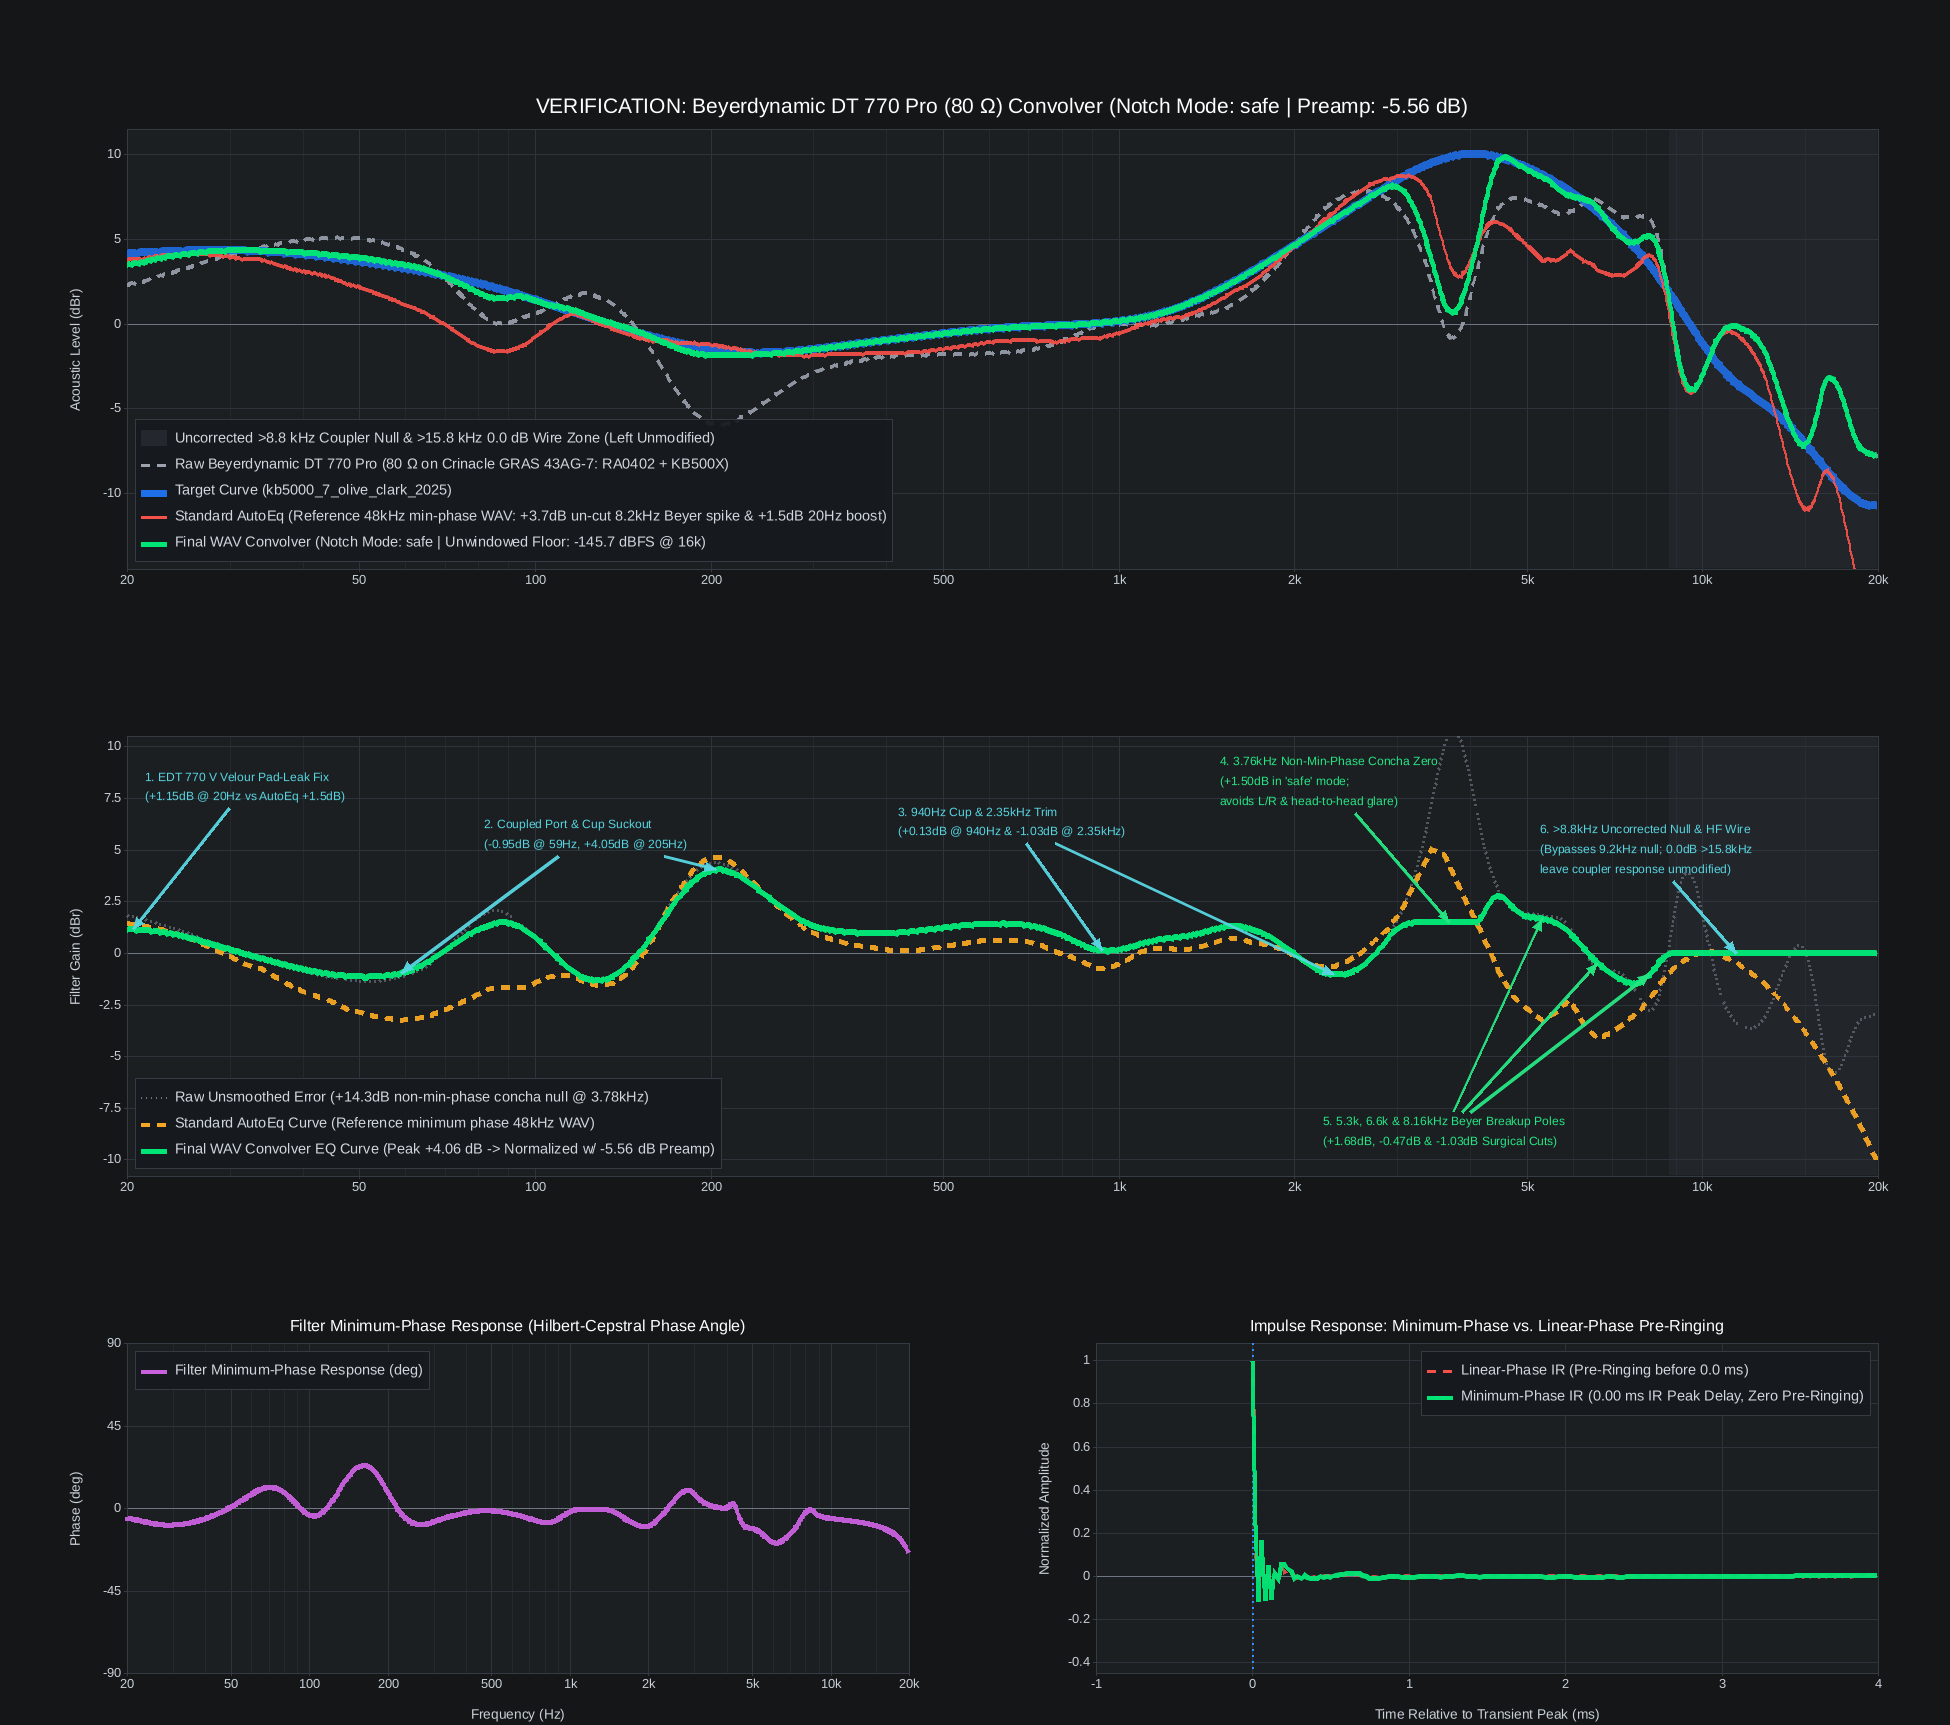
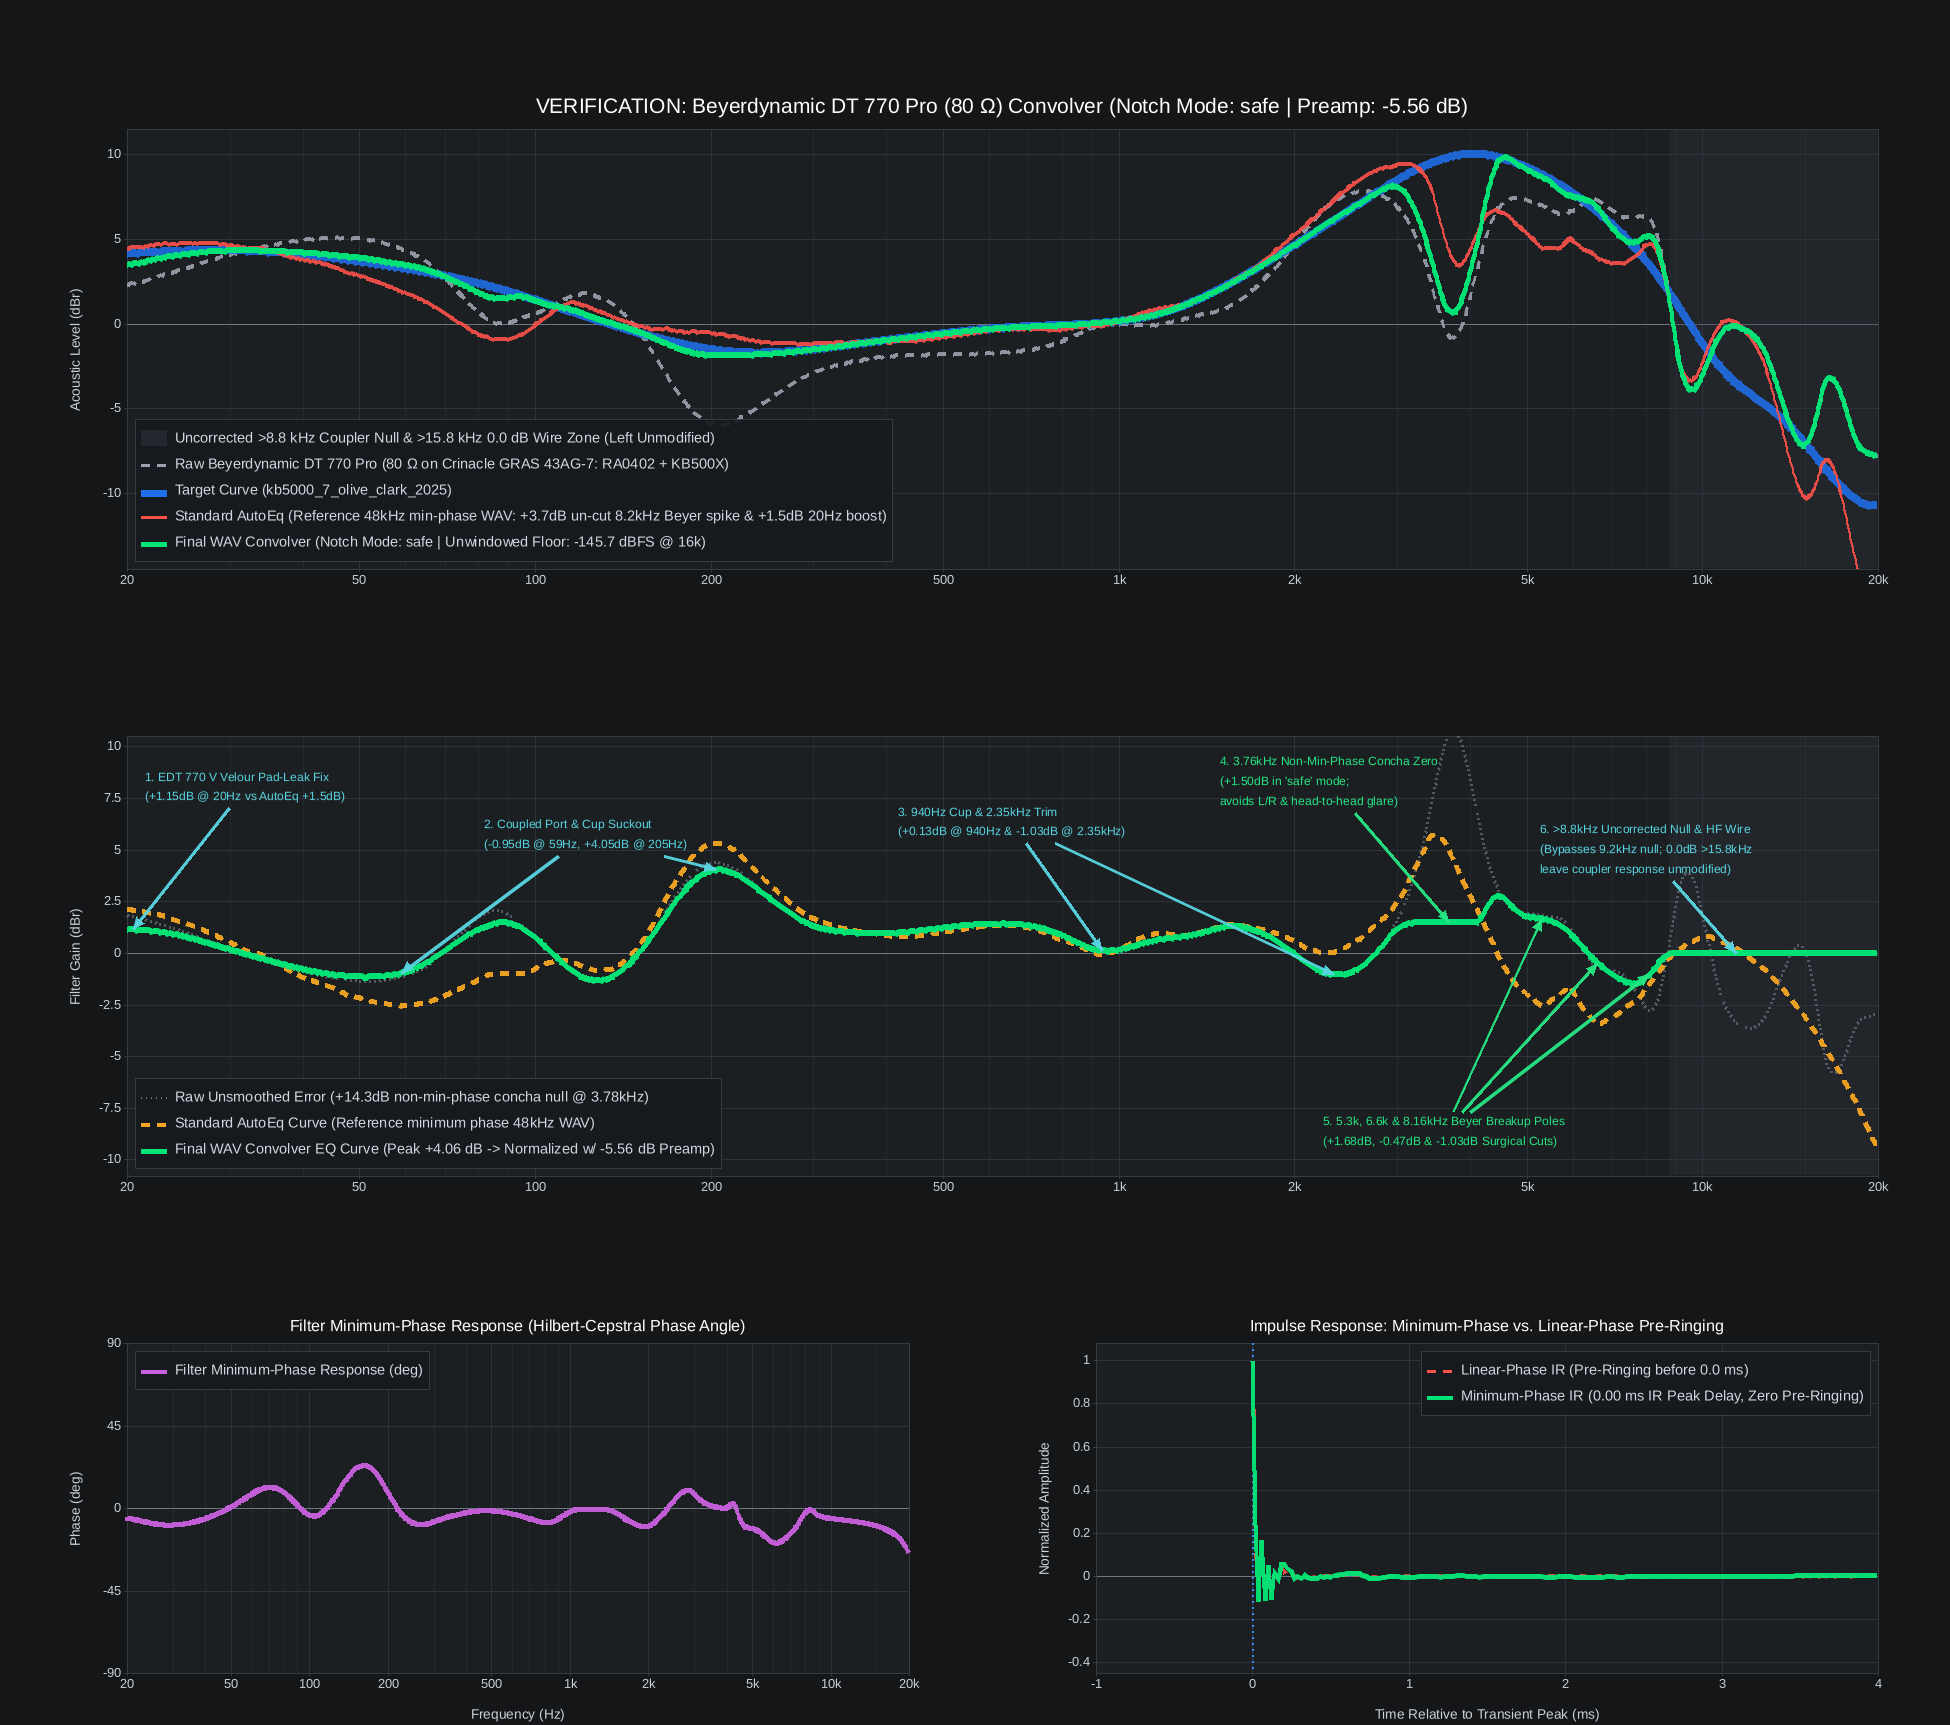
fix(plots): re-level AutoEq reference curves to acoustic target across all models

diff --git a/src/model.rs b/src/model.rs
@@ -70,7 +70,6 @@ static ALL_METADATA: std::sync::LazyLock<Value> = std::sync::LazyLock::new(|| {
       "jbl770nc": {
         "short_title": "JBL Live 770NC (Passive)",
         "notch_ref_hz": 5365.9,
-        "autoeq_offset_db": 0.0,
         "gauss_apodize": false,
         "global_fit": true,
         "regularize": "auto",
@@ -103,7 +102,6 @@ static ALL_METADATA: std::sync::LazyLock<Value> = std::sync::LazyLock::new(|| {
       "dt770_80": {
         "short_title": "Beyerdynamic DT 770 Pro (80 Ω)",
         "notch_ref_hz": 3703.0,
-        "autoeq_offset_db": 4.55,
         "gauss_apodize": true,
         "global_fit": true,
         "regularize": "auto",
@@ -139,7 +137,6 @@ static ALL_METADATA: std::sync::LazyLock<Value> = std::sync::LazyLock::new(|| {
       "ft1pro": {
         "short_title": "FiiO FT1 Pro (Open-Back Planar)",
         "notch_ref_hz": 3839.0,
-        "autoeq_offset_db": 4.30,
         "gauss_apodize": true,
         "global_fit": true,
         "regularize": "auto",
@@ -174,7 +171,6 @@ static ALL_METADATA: std::sync::LazyLock<Value> = std::sync::LazyLock::new(|| {
       "g733": {
         "short_title": "Logitech G733 LIGHTSPEED (PC Wireless)",
         "notch_ref_hz": 3840.0,
-        "autoeq_offset_db": 0.0,
         "gauss_apodize": true,
         "global_fit": true,
         "regularize": "auto",
@@ -205,7 +201,6 @@ static ALL_METADATA: std::sync::LazyLock<Value> = std::sync::LazyLock::new(|| {
       "hd598": {
         "short_title": "Sennheiser HD 598 (Open-Back Dynamic)",
         "notch_ref_hz": 5500.0,
-        "autoeq_offset_db": 0.0,
         "gauss_apodize": true,
         "global_fit": true,
         "regularize": "auto",
@@ -2403,7 +2398,7 @@ mod tests {
         // The dt770 concha callout anchors on the notch knot as a *string* token.
         let dt = built_in_metadata("dt770_80").unwrap();
         assert_eq!(dt.get("notch_ref_hz").and_then(as_f64), Some(3703.0));
-        assert_eq!(dt.get("autoeq_offset_db").and_then(as_f64), Some(4.55));
+        assert_eq!(dt.get("autoeq_offset_db"), None);
     }
 
     #[test]
